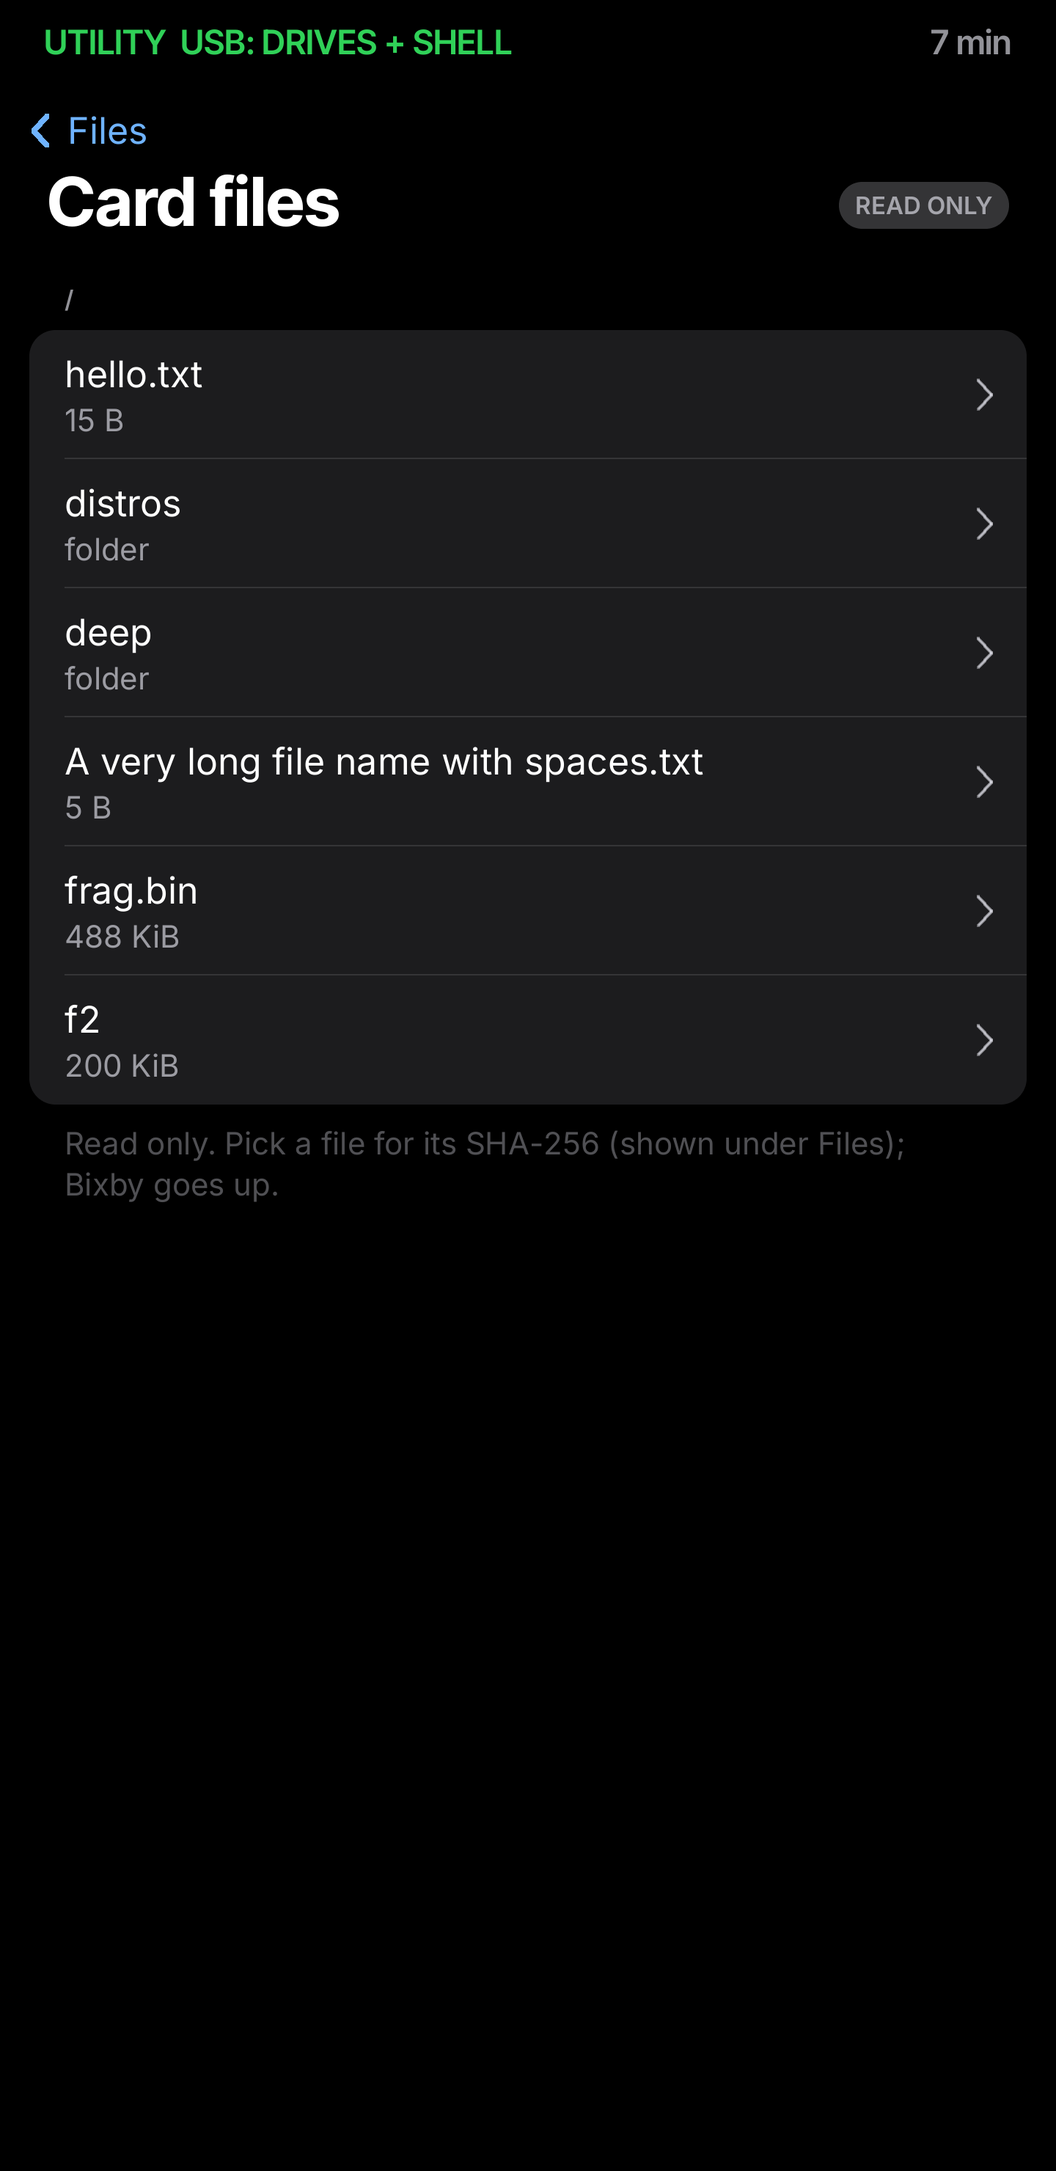
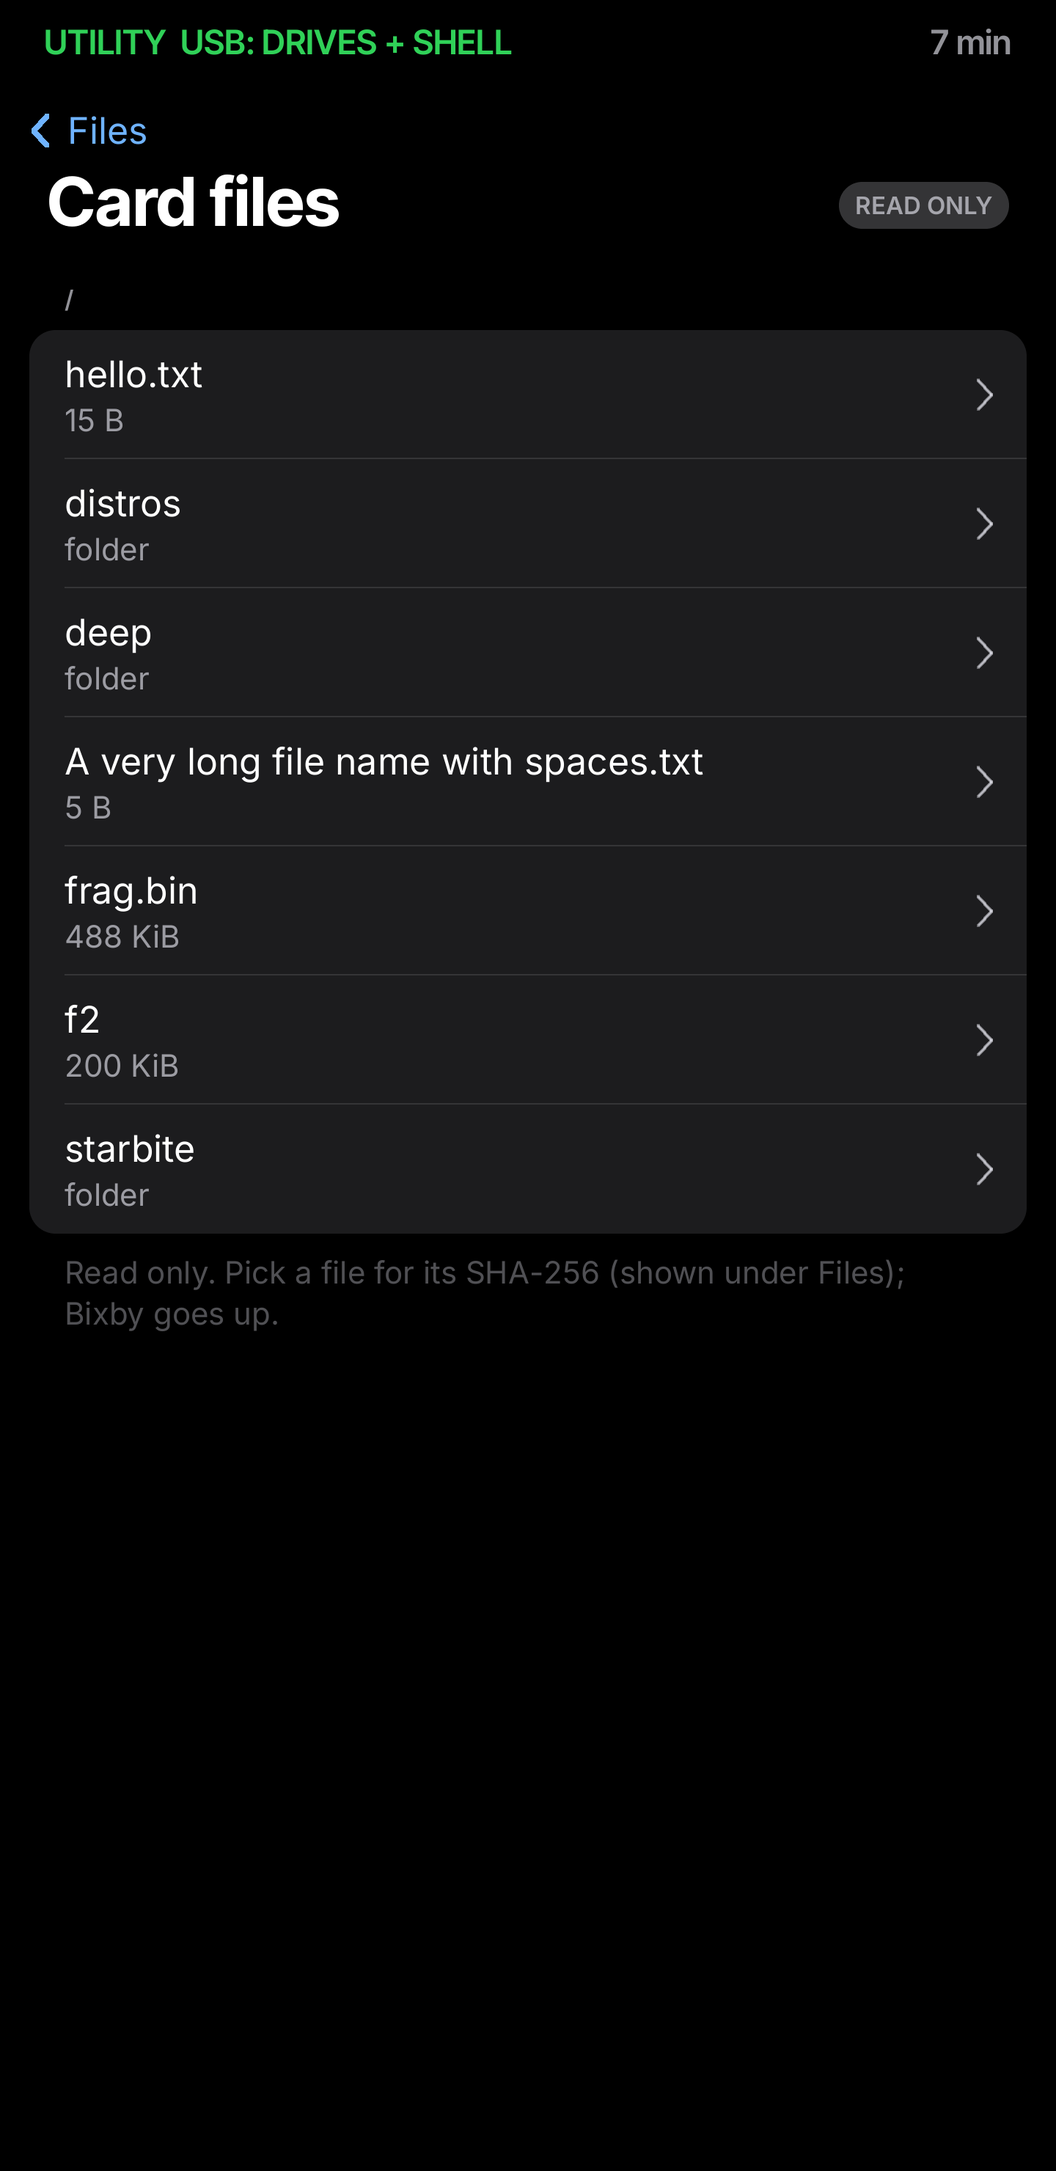
Utility OS: the macro pad reads your own buttons from /starbite/macros.toml on the card ("Label" = "cmd+c" or "text:..."; up to 8 replace the first two rows, the media row stays; without the file the defaults stay); macros.c is a pure parser, host-tested on examples and on the fixture card, which no

Changed region(s): [[0.0, 0.4973, 1.0, 0.6216]]

diff --git a/starbite/utility/macros.c b/starbite/utility/macros.c
@@ -1,0 +1,131 @@
+/* SPDX-License-Identifier: GPL-2.0-only
+ * The macro pad's buttons from /starbite/macros.toml on the card (docs/UTILITY-OS.md), one per line:
+ *     "Copy" = "cmd+c"
+ *     "Lock screen" = "ctrl+cmd+q"
+ *     "Sign-off" = "text:Best regards"
+ * Keys: modifiers cmd (command, gui), ctrl (control), alt (option, opt), shift; then one key: a-z, 0-9,
+ * enter (return), esc (escape), backspace (delete), tab, space, minus, equal, comma, period, slash,
+ * up, down, left, right, f1-f12. Lines starting with # and blank lines are skipped; a bad line is skipped.
+ * Pure C (the host test parses examples). */
+#include "macros.h"
+
+static int lower(int c) { return c >= 'A' && c <= 'Z' ? c + 32 : c; }
+
+static int eqn(const char *a, unsigned n, const char *b)
+{
+    unsigned i = 0;
+    for (; i < n && b[i]; ++i)
+        if (lower(a[i]) != b[i])
+            return 0;
+    return i == n && !b[i];
+}
+
+static int keycode(const char *k, unsigned n, uint8_t *out)
+{
+    static const struct { const char *name; uint8_t code; } named[] = {
+        { "enter", 0x28 }, { "return", 0x28 }, { "esc", 0x29 }, { "escape", 0x29 }, { "backspace", 0x2a },
+        { "delete", 0x2a }, { "tab", 0x2b }, { "space", 0x2c }, { "minus", 0x2d }, { "equal", 0x2e },
+        { "comma", 0x36 }, { "period", 0x37 }, { "slash", 0x38 }, { "right", 0x4f }, { "left", 0x50 },
+        { "down", 0x51 }, { "up", 0x52 },
+    };
+    if (n == 1) {
+        int c = lower(k[0]);
+        if (c >= 'a' && c <= 'z') { *out = (uint8_t)(0x04 + c - 'a'); return 1; }
+        if (c >= '1' && c <= '9') { *out = (uint8_t)(0x1e + c - '1'); return 1; }
+        if (c == '0') { *out = 0x27; return 1; }
+    }
+    if ((n == 2 || n == 3) && lower(k[0]) == 'f') {
+        unsigned v = 0;
+        for (unsigned i = 1; i < n; ++i) {
+            if (k[i] < '0' || k[i] > '9')
+                return 0;
+            v = v * 10 + (unsigned)(k[i] - '0');
+        }
+        if (v >= 1 && v <= 12) { *out = (uint8_t)(0x3a + v - 1); return 1; }
+        return 0;
+    }
+    for (unsigned i = 0; i < sizeof(named) / sizeof(named[0]); ++i)
+        if (eqn(k, n, named[i].name)) { *out = named[i].code; return 1; }
+    return 0;
+}
+
+static int quoted(const char **p, const char *end, char *out, unsigned cap)
+{
+    const char *s = *p;
+    while (s < end && (*s == ' ' || *s == '\t'))
+        ++s;
+    if (s >= end || *s != '"')
+        return 0;
+    ++s;
+    unsigned n = 0;
+    while (s < end && *s != '"') {
+        if (n + 1 < cap)
+            out[n++] = *s;
+        ++s;
+    }
+    if (s >= end)
+        return 0;
+    out[n] = 0;
+    *p = s + 1;
+    return 1;
+}
+
+static int spec(const char *v, struct macro *m)
+{
+    if (v[0] == 't' && v[1] == 'e' && v[2] == 'x' && v[3] == 't' && v[4] == ':') {
+        unsigned i = 0;
+        for (const char *s = v + 5; *s && i + 1 < sizeof(m->text); ++s)
+            m->text[i++] = *s;
+        m->text[i] = 0;
+        return i > 0;
+    }
+    m->mod = 0;
+    const char *s = v;
+    for (;;) {
+        const char *e = s;
+        while (*e && *e != '+')
+            ++e;
+        unsigned n = (unsigned)(e - s);
+        if (!*e) {                                    /* the last token: the key */
+            return n && keycode(s, n, &m->key);
+        }
+        if (eqn(s, n, "cmd") || eqn(s, n, "command") || eqn(s, n, "gui")) m->mod |= 0x08;
+        else if (eqn(s, n, "ctrl") || eqn(s, n, "control")) m->mod |= 0x01;
+        else if (eqn(s, n, "alt") || eqn(s, n, "option") || eqn(s, n, "opt")) m->mod |= 0x04;
+        else if (eqn(s, n, "shift")) m->mod |= 0x02;
+        else return 0;
+        s = e + 1;
+    }
+}
+
+int macros_parse(const char *src, unsigned len, struct macro *out, int max)
+{
+    int n = 0;
+    const char *p = src, *end = src + len;
+    while (p < end && n < max) {
+        const char *eol = p;
+        while (eol < end && *eol != '\n')
+            ++eol;
+        const char *q = p;
+        while (q < eol && (*q == ' ' || *q == '\t' || *q == '\r'))
+            ++q;
+        if (q < eol && *q != '#') {
+            struct macro m;
+            for (unsigned i = 0; i < sizeof(m); ++i)
+                ((char *)&m)[i] = 0;
+            char val[64];
+            const char *r = q;
+            if (quoted(&r, eol, m.label, sizeof(m.label))) {
+                while (r < eol && (*r == ' ' || *r == '\t'))
+                    ++r;
+                if (r < eol && *r == '=') {
+                    ++r;
+                    if (quoted(&r, eol, val, sizeof(val)) && spec(val, &m))
+                        out[n++] = m;
+                }
+            }
+        }
+        p = eol + 1;
+    }
+    return n;
+}

diff --git a/starbite/utility/pad.c b/starbite/utility/pad.c
@@ -8,6 +8,8 @@
 #include "hid.h"
 #include "ut.h"
 #include "usb_dwc3.h"
+#include "exfat.h"
+#include "macros.h"
 
 #define PAD_Y0 (UI_VIEW_Y0 + 20)
 #define PAD_Y1 1860
@@ -16,12 +18,46 @@
 #define BTN_GAP 30
 
 struct mbtn { const char *label; uint8_t mod, key; uint16_t media; };
-static const struct mbtn btns[12] = {
+static const struct mbtn defaults[12] = {
     { "Copy", HID_GUI, 0x06, 0 },      { "Paste", HID_GUI, 0x19, 0 },     { "Undo", HID_GUI, 0x1d, 0 },
     { "Cmd Tab", HID_GUI, 0x2b, 0 },   { "Space", 0, 0x2c, 0 },           { "Return", 0, 0x28, 0 },
     { "Esc", 0, 0x29, 0 },             { "Mission", HID_CTRL, 0x52, 0 },  { "Vol -", 0, 0, HID_VOL_DOWN },
     { "Play", 0, 0, HID_PLAY },        { "Vol +", 0, 0, HID_VOL_UP },     { "Mute", 0, 0, HID_MUTE },
 };
+static struct { char label[16]; uint8_t mod, key; uint16_t media; char text[48]; } btns[12];
+static int user_macros;                               /* how many came from the card */
+
+/* the defaults, then up to 8 macros from /starbite/macros.toml on the card (rows 1 and 2) */
+static void load_buttons(void)
+{
+    for (int i = 0; i < 12; ++i) {
+        sb_strcpy(btns[i].label, sizeof(btns[i].label), defaults[i].label);
+        btns[i].mod = defaults[i].mod;
+        btns[i].key = defaults[i].key;
+        btns[i].media = defaults[i].media;
+        btns[i].text[0] = 0;
+    }
+    user_macros = 0;
+    struct exfat *fs = ut_card();
+    static struct exfat_ent scratch[40];
+    struct exfat_ent e;
+    static char src[4096];
+    if (!fs || exfat_walk(fs, "/starbite/macros.toml", &e, scratch, 40) || e.dir)
+        return;
+    uint32_t n = e.size < sizeof(src) ? (uint32_t)e.size : (uint32_t)sizeof(src);
+    if (exfat_read_chain(fs, e.first, e.nofat, 0, (uint8_t *)src, n))
+        return;
+    struct macro m[8];
+    int k = macros_parse(src, n, m, 8);
+    for (int i = 0; i < k; ++i) {
+        sb_strcpy(btns[i].label, sizeof(btns[i].label), m[i].label);
+        btns[i].mod = m[i].mod;
+        btns[i].key = m[i].key;
+        btns[i].media = 0;
+        sb_strcpy(btns[i].text, sizeof(btns[i].text), m[i].text);
+    }
+    user_macros = k;
+}
 
 static void btn_rect(int i, int *x, int *y, int *w, int *h)
 {
@@ -47,7 +83,8 @@ static void draw_pad(int touching)
     ui_round(50, PAD_Y0, UI_W - 100, PAD_Y1 - PAD_Y0, 56, touching ? C_CARD2 : C_CARD);
     ui_text(F_DETAIL, 110, PAD_Y0 + 100, "Trackpad", C_L2);
     ui_text(F_SMALL, 110, PAD_Y1 - 150, "drag: move   tap: click   hold: right click", C_L3);
-    ui_text(F_SMALL, 110, PAD_Y1 - 80, "Volume: scroll   Bixby: back", C_L3);
+    ui_text(F_SMALL, 110, PAD_Y1 - 80, user_macros ? "Volume: scroll   Bixby: back   macros: the card"
+                                                   : "Volume: scroll   Bixby: back", C_L3);
     ui_dirty(50, PAD_Y0, UI_W - 100, PAD_Y1 - PAD_Y0);
 }
 
@@ -76,7 +113,9 @@ static int hit_btn(int x, int y)
 
 static void press(int i)
 {
-    if (btns[i].media)
+    if (btns[i].text[0])
+        hid_text(btns[i].text);
+    else if (btns[i].media)
         hid_media(btns[i].media);
     else
         hid_key(btns[i].mod, btns[i].key);
@@ -88,6 +127,7 @@ static void press(int i)
 
 void ut_pad(void)
 {
+    load_buttons();
     hid_reset();
     ui_touch_raw(1);
     ui_input_reset();

diff --git a/starbite/tools/ut-host-test.c b/starbite/tools/ut-host-test.c
@@ -17,6 +17,7 @@
 #include "hash.h"
 #include "calc.h"
 #include "exfat.h"
+#include "macros.h"
 
 static int busy[16];
 static uintptr_t qbuf[16];
@@ -282,9 +283,31 @@ int main(int argc, char **argv)
             ok &= fb[i] == (uint8_t)((i + 199999) * 13 + 5);
         CHECK(ok, "frag.bin piece content");
         CHECK(exfat_walk(&fs, "/nope", &e, ents, 32) != 0, "missing path refused");
+        /* the macro pad's file, as pad.c reads it */
+        CHECK(exfat_walk(&fs, "/starbite/macros.toml", &e, ents, 32) == 0 && !e.dir && e.size < 4096 &&
+              exfat_read_chain(&fs, e.first, e.nofat, 0, fb, e.size) == 0, "macros.toml on the card");
+        {
+            struct macro m[8];
+            int k = macros_parse((const char *)fb, (unsigned)e.size, m, 8);
+            CHECK(k == 4 && !strcmp(m[2].label, "Sign-off") && m[3].mod == 0x0a && m[3].key == 0x21,
+                  "card macros: %d", k);
+        }
         fclose(card);
     } else {
         printf("exFAT: no UT_EXFAT fixture, skipped\n");
+    }
+    /* macros.toml */
+    {
+        const char *src = "# my buttons\n\"Copy\" = \"cmd+c\"\r\n  \"Lock\" = \"ctrl+cmd+q\"\n\"Sig\" = \"text:Best regards\"\n"
+                          "\"Bad\" = \"hyper+x\"\n\"F5\" = \"f5\"\n\"Tab back\" = \"shift+tab\"\nnot a line\n";
+        struct macro m[8];
+        int n = macros_parse(src, (unsigned)strlen(src), m, 8);
+        CHECK(n == 5, "macros: %d parsed (want 5)", n);
+        CHECK(n >= 5 && !strcmp(m[0].label, "Copy") && m[0].mod == 0x08 && m[0].key == 0x06, "cmd+c");
+        CHECK(n >= 5 && m[1].mod == 0x09 && m[1].key == 0x14, "ctrl+cmd+q");
+        CHECK(n >= 5 && !strcmp(m[2].text, "Best regards") && !m[2].key, "text macro");
+        CHECK(n >= 5 && m[3].key == 0x3e && !m[3].mod, "f5");
+        CHECK(n >= 5 && m[4].mod == 0x02 && m[4].key == 0x2b, "shift+tab");
     }
     /* the configuration descriptor, both speeds */
     for (int fs = 0; fs < 2; ++fs) {

diff --git a/starbite/utility/macros.h b/starbite/utility/macros.h
@@ -1,0 +1,13 @@
+/* SPDX-License-Identifier: GPL-2.0-only
+ * The macro pad's buttons from /starbite/macros.toml (macros.c). */
+#pragma once
+#include <stdint.h>
+
+struct macro {
+    char label[16];
+    uint8_t mod, key;          /* a key combination, or */
+    char text[48];             /* text to type (US layout) */
+};
+
+/* Parse up to max macros from src (the file's bytes); returns how many. */
+int macros_parse(const char *src, unsigned len, struct macro *out, int max);

diff --git a/starbite/utility/tools.c b/starbite/utility/tools.c
@@ -414,6 +414,12 @@ static int card_mount(void)
     return cfs_state > 0;
 }
 
+/* the card's exFAT for other screens (the macro pad): 0 when not readable */
+struct exfat *ut_card(void)
+{
+    return card_mount() ? &cfs : 0;
+}
+
 static void browse_fill(struct page *p)
 {
     struct ub u;

diff --git a/starbite/utility/ut.h b/starbite/utility/ut.h
@@ -8,3 +8,5 @@ void ut_measure(void);
 void ut_everyday(void);
 void ut_pad(void);
 void ut_files(void);
+struct exfat;
+struct exfat *ut_card(void);           /* the card's exFAT (tools.c), 0 if not readable */

diff --git a/docs/UTILITY-OS.md b/docs/UTILITY-OS.md
@@ -11,17 +11,31 @@ milestones **UO1** (USB device mode with a serial shell) and **UO2** (the phone 
 | Launcher | Tiles **USB**, **Radio**, **Files**, **Measure**, **Everyday**, **Boot menu**. Volume moves, Power opens, tap works; Power held / Bixby / swipe right goes back |
 | USB drives | Plug the phone into a computer: two drives appear. **RAM disk**: FAT32, label `STARBITE`, read-write, up to 1 GiB of DRAM bank 2 (gone when the phone restarts: copy files off first). It starts with `README.TXT`, `PHONE.TXT` (serial, memory banks, the card, every UFS partition with its blocks), `PMSG.TXT` (**the previous boot's log**: the loader's lines and the OS before, from the pmsg ring) and `LOG.TXT` (this start). **microSD (ro)**: the whole card, **read-only** (it holds the Linux images and backups) |
 | UFS partitions | USB page → **Offer UFS partitions as drives** (or the shell's `ufs on` / `ufs off`): BOOT, SYSTEM, VENDOR, ODM, WINESP, WINDOWS, A16DATA and USERDATA become extra **read-only** drives (512-byte blocks over UFS's 4 KiB ones), to copy them to the computer (`dd` from `/dev/rdiskN`, then compare with the phone's `hash`). USB reconnects when the set changes. EFS, PARAM, KEYSTORAGE and the other never-touch partitions are never offered |
-| Trackpad and keys | USB page → **Trackpad and keys** (UO3): the screen is a trackpad (drag moves the pointer, tap clicks, hold still 0.6 s right-clicks, Volume scrolls), with buttons Copy, Paste, Undo, Cmd Tab, Space, Return, Esc, Mission Control and the media keys Vol -, Play, Vol +, Mute (Mac shortcuts: Command is the HID GUI key). Bixby leaves |
+| Trackpad and keys | USB page → **Trackpad and keys** (UO3): the screen is a trackpad (drag moves the pointer, tap clicks, hold still 0.6 s right-clicks, Volume scrolls), with buttons Copy, Paste, Undo, Cmd Tab, Space, Return, Esc, Mission Control and the media keys Vol -, Play, Vol +, Mute (Mac shortcuts: Command is the HID GUI key). **Your own buttons**: up to 8 macros from `/starbite/macros.toml` on the card replace the first two rows (below). Bixby leaves |
 | Files | **Browse the card** (read only: folders and files on the card's exFAT partition; pick a file for its SHA-256 + CRC32) and **Hash** every UFS partition or the whole card (live progress, MB/s, time left; keeps running if you leave the page) |
 | Shell | A USB serial port (`/dev/cu.usbmodem*` on a Mac, 115200 8N1, any terminal): `help`, `info`, `drives` (sizes, traffic, SCSI counters), `parts` (UFS partitions and sizes), `ufs on|off`, `hash NAME [BYTES]` (SHA-256 + CRC32 of a partition or `card`, or of their first BYTES: e.g. `hash SYSTEM 6419857408` checks One UI's system image), `log`, `menu` (restart into the Starbite menu), `maint` (Starbite Maintenance), `off` |
 | USB page | Connection state and speed, each drive with its traffic, SCSI command and error counters, the shell state |
 | Leaving | The **Boot menu** tile (asks first), or the shell's `menu`. With **no computer ever connected and no touch or key for 10 minutes** it returns to the menu by itself (a countdown shows in the status bar for the last minute) |
 
 | Measure | **USB charger tester** (live: input, VBUS, charge state, battery %, voltage, current in/out, power, the input and charge current limits; read only, Lab's MAX77705 readers), **Ruler** (cm on the left, inches on the right, at the panel's 570 ppi), **Colour fields** (white, black, red, green, blue, grey full screen for dead pixels; the label fades so nothing covers a pixel) |
-| Everyday | **Clock** (the phone's RTC, UTC), **Stopwatch** (Power start/stop, tap to reset when stopped), **Timer** (tap +1 min, Power start/pause; flashes when done) |
+| Everyday | **Clock** (the phone's RTC, UTC), **Stopwatch** (Power start/stop, tap to reset when stopped), **Timer** (tap +1 min, Power start/pause; flashes when done), **Calculator** (+ − × /, powers, roots, ln, brackets) |
 
 Radio and Files show what comes next (master plan 4.4): file manager, hashing and imaging (UO4), then the
-radio tools once bare-metal drivers exist; a calculator and the flashlight are still to come.
+radio tools once bare-metal drivers exist; the flashlight is still to come.
+
+**Macro pad file** (`/starbite/macros.toml` on the card's exFAT partition, read when the trackpad screen
+opens): one button per line, `"Label" = "keys"` or `"Label" = "text:what to type"`. Keys are modifiers joined
+with `+` (`cmd`/`command`, `ctrl`, `alt`/`option`, `shift`) and one key (`a`-`z`, `0`-`9`, `f1`-`f12`, `enter`,
+`esc`, `tab`, `space`, `backspace`, `up`/`down`/`left`/`right`, `minus`, `equal`, `comma`, `period`, `slash`).
+Text is typed with the US layout. Lines starting with `#` and lines it cannot read are skipped; labels show up
+to 15 characters. Without the file (or without a card) the default buttons stay.
+
+```toml
+"Copy" = "cmd+c"
+"Lock" = "ctrl+cmd+q"
+"Shot" = "shift+cmd+4"
+"Sign-off" = "text:Best regards"
+```
 
 **First connection to a Mac**: the USB identity is new (`1209:0001`, "Starbite Utility (Galaxy S9)"), so macOS
 may hold it until you allow the accessory (System Settings, Privacy & Security, "Allow accessories to
@@ -48,11 +62,12 @@ tile, or wait for the 10-minute return).
 | `exfat.c`, `exfat.h` | Read-only exFAT: the MBR's type 0x07 partition, the boot sector, directory entry sets (UTF-16 names), reads at any offset over FAT chains or NoFatChain runs, consecutive clusters read together |
 | `hash.c`, `hash.h`, `sha256.c` | The hash job (1 MiB per service-loop step, UFS through `ufs_read_to`, the card through `sd_read4k`) and pure SHA-256 / CRC32 (zlib's) |
 | `hid.c`, `hid.h`, `pad.c` | UO3: the HID report queue (pointer motion accumulated and sent in steps of at most 127), the trackpad and key screen; libsb's `ui_touch_raw` (every move an EV_DRAG, no swipes) makes the trackpad |
+| `macros.c`, `macros.h` | The macro pad file's parser (pure C; the host test parses examples and the fixture's file) |
 | `hw.h`, `fastboot.h`, `tb.c` | The few loader helpers those drivers use, on libsb |
 | `build.sh` | Lab's build (same flags and checks: relocations, pre-relocation code, host paths), output `starbite/out/utility.img`; on a native aarch64 host it first runs the host test |
-| `tools.c`, `ut.h` | Measure and Everyday |
+| `tools.c`, `ut.h` | Measure, Everyday, Files (the card browser; `ut_card` gives other screens the card's exFAT) |
 | `starbite/host/ut-preview.sh` | Host preview (the fake card is the exFAT fixture): the real Utility OS and sbui code on `host.c`'s fake hardware (plus `ut-host-stubs.c` for USB), scripted keys, PNGs to `starbite/utility/preview/` (home, USB, Radio, leave dialog, Measure, ruler, colour fields, Everyday, the idle countdown); every frame is checked fully presented |
-| `starbite/tools/ut-host-test.c` | Host test: a fake controller plays the host through 13 SCSI commands (write and read back across chunks, padding and residue, sense, the read-only refusal, out of range, a bulk-only reset); the FAT32 image it formats passes `fsck.fat -n`; the configuration descriptor at both speeds (length 123 = wTotalLength, the descriptor chain: 4 interfaces, 6 endpoints, the HID descriptor's report length, balanced collections) |
+| `starbite/tools/ut-host-test.c` | Host test: a fake controller plays the host through 13 SCSI commands (write and read back across chunks, padding and residue, sense, the read-only refusal, out of range, a bulk-only reset); the FAT32 image it formats passes `fsck.fat -n`; the configuration descriptor at both speeds (length 123 = wTotalLength, the descriptor chain: 4 interfaces, 6 endpoints, the HID descriptor's report length, balanced collections); exFAT against the fixture card (MBR, a fragmented file, a deep path); the calculator; the macro parser |
 
 DMA layout in the window (`USB_DMA_BASE` 0xa7000000): the driver's event buffer, TRBs and ep0 in the first
 16 KiB; the CBW at +0x8000, the CSW at +0x8400, the shell's buffers at +0x9000 / +0xa000, the drive data
@@ -65,7 +80,7 @@ DMA layout in the window (`USB_DMA_BASE` 0xa7000000): the driver's event buffer,
   approval). The drives and the shell were not reached yet; that build had no idle return (added since).
 - Since then (not yet on the phone): Measure, Everyday, UO3 keyboard/mouse/media keys with the trackpad
   screen, Files hashing (+ shell `parts`, `hash`), the card browser, the calculator, UFS partitions as
-  read-only drives, the idle return; all previewed on the host.
+  read-only drives, the idle return, the macro pad file; all previewed on the host.
 - Next on the phone, with the accessory allowed: UO2's check (both drives mount; a copied file's hash matches
   after an unmount and remount), the shell, then UO3 (the pointer moves, a key arrives); then UO4 (file
   manager, hashing, imaging) and the calculator.
